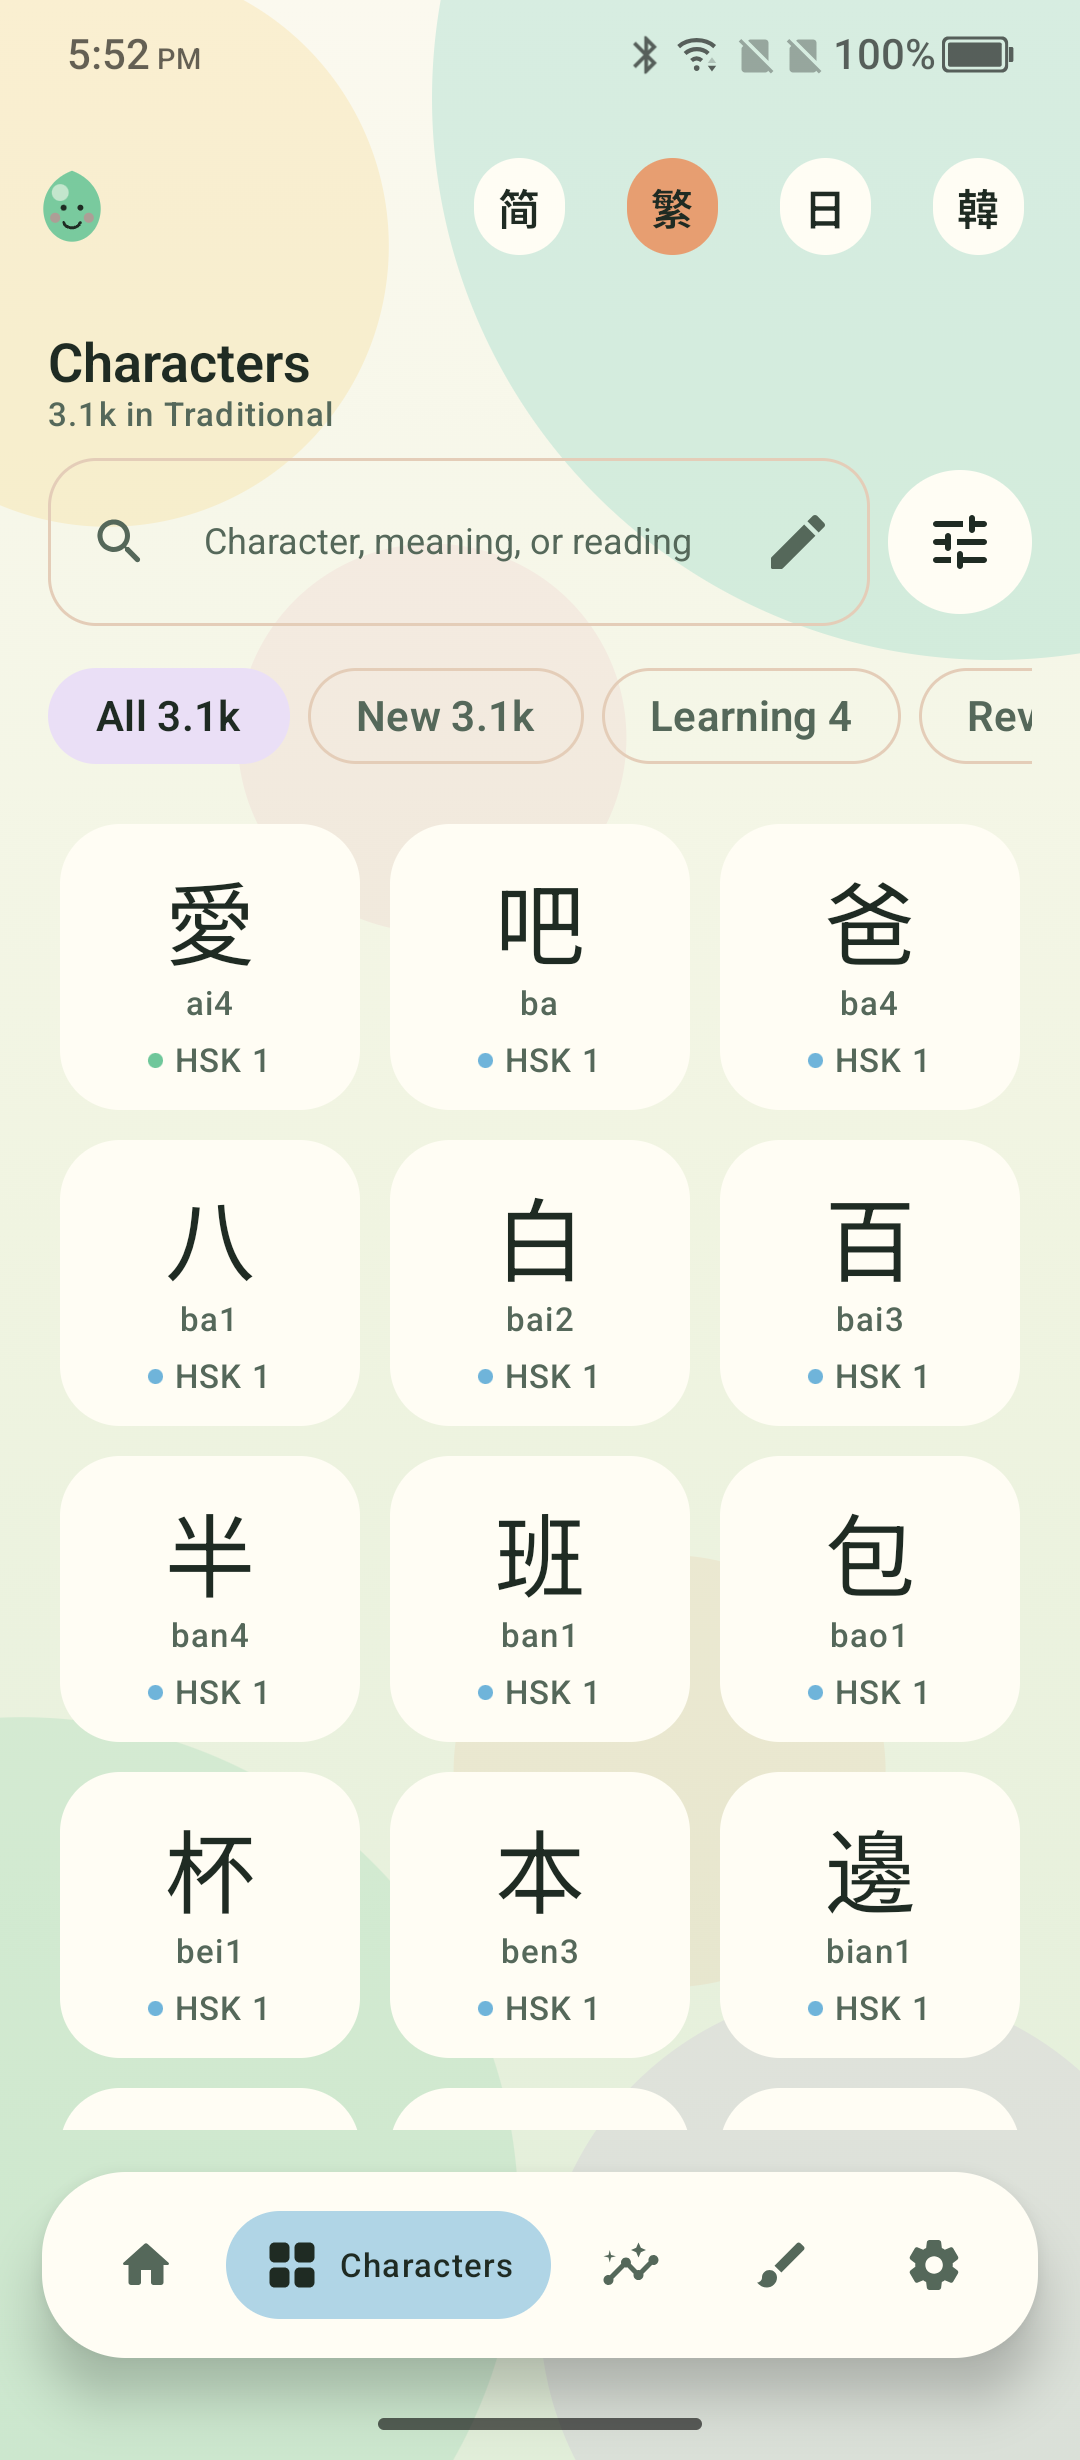
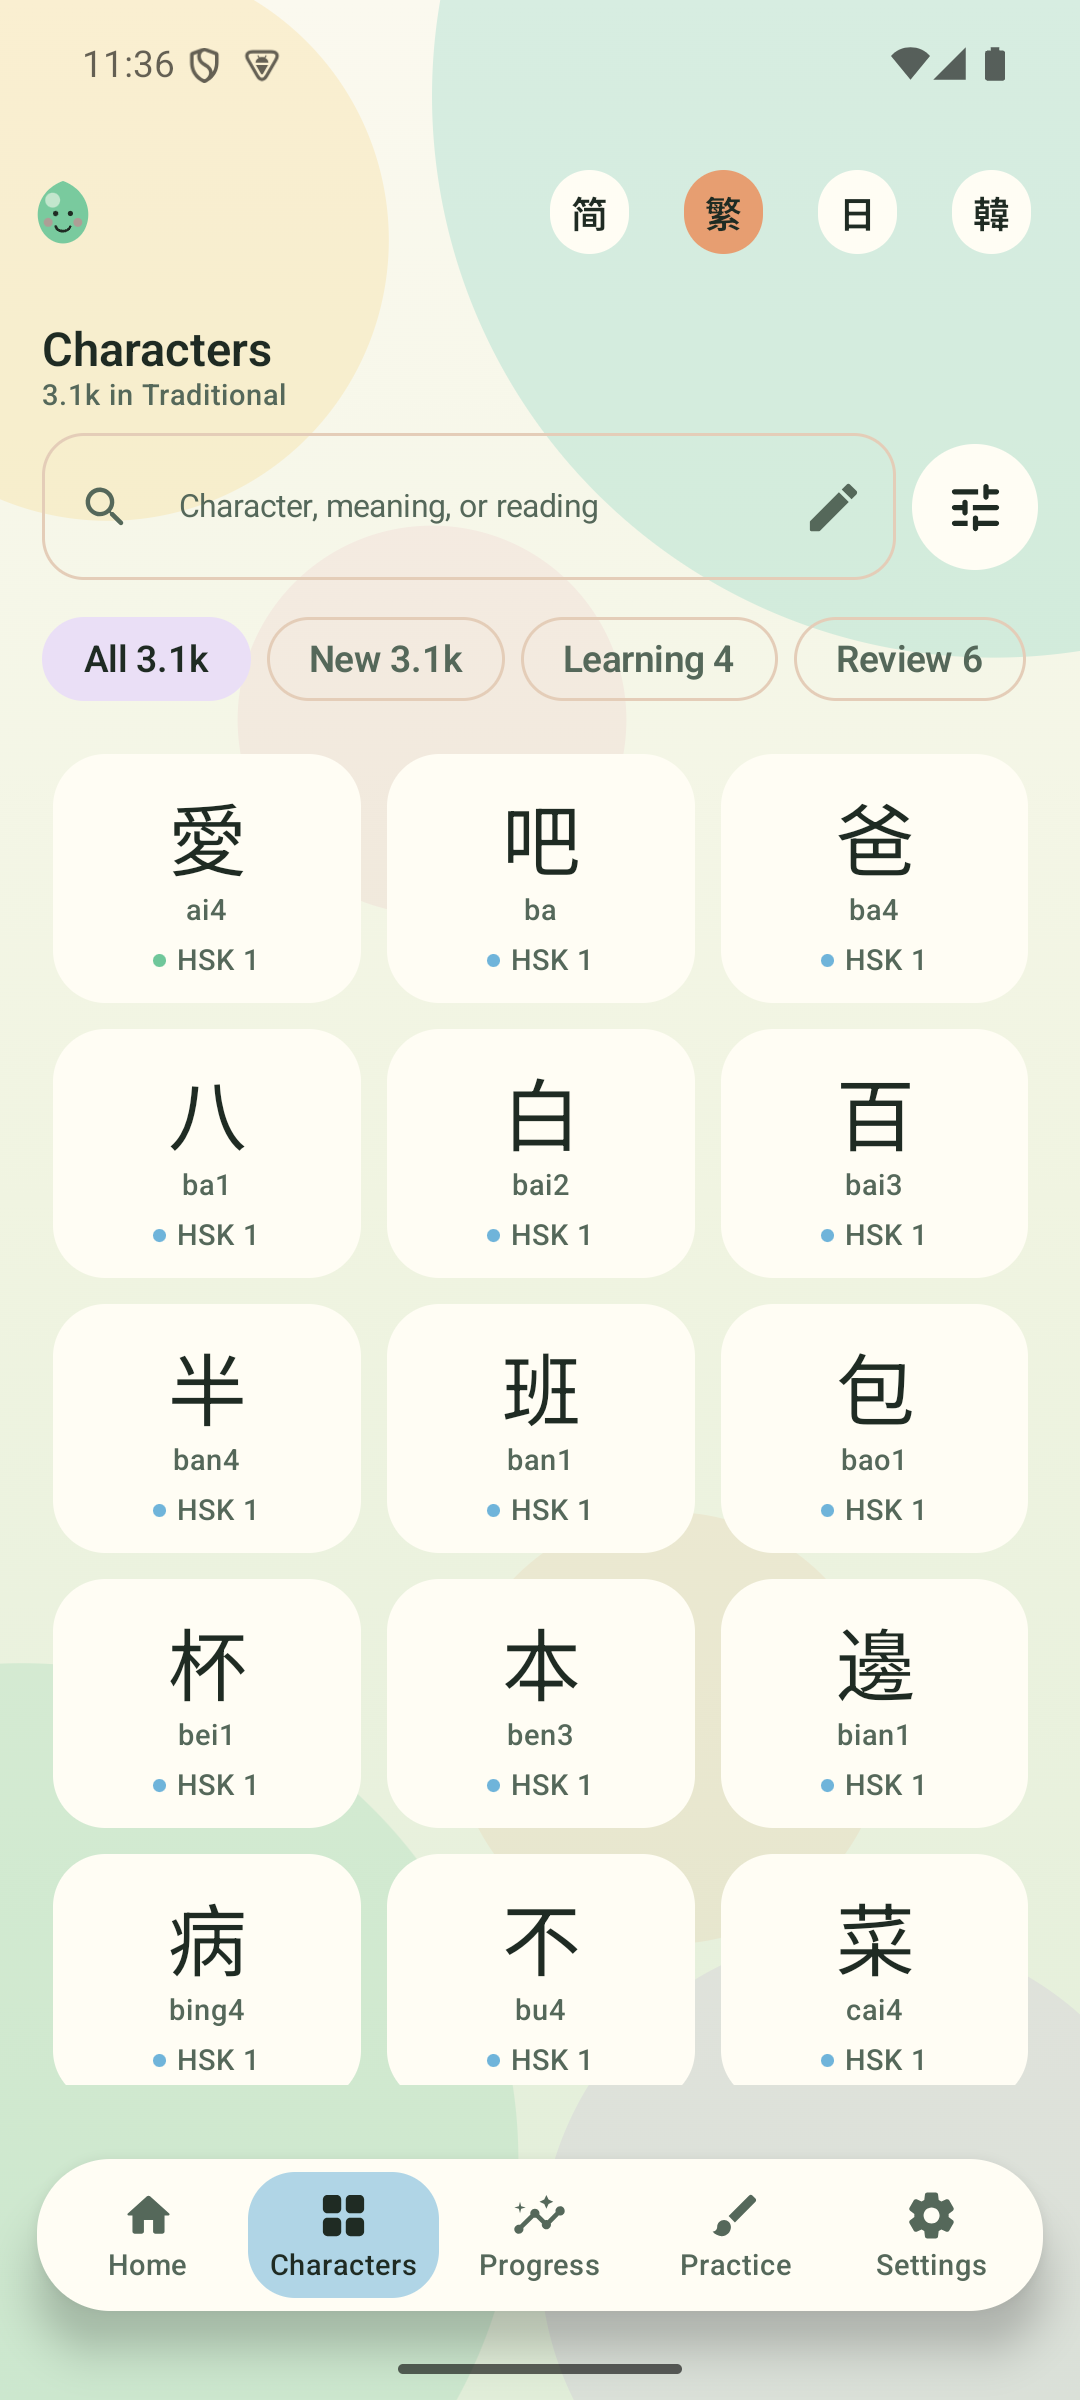
Refresh Play screenshots from the real 1.0.2 app

diff --git a/app/src/main/java/com/bassmd/bihua/ui/BihuaApp.kt b/app/src/main/java/com/bassmd/bihua/ui/BihuaApp.kt
@@ -818,7 +818,7 @@ fun BihuaApp(store: SettingsStore) {
                             Modifier
                                 .weight(1f)
                                 .navigationBarsPadding()
-                                .padding(bottom = 86.dp),
+                                .padding(bottom = 96.dp),
                         ) {
                             AppContent(
                                 tab = tab,
@@ -1292,34 +1292,36 @@ private fun BihuaBottomBar(
         Row(
             modifier = Modifier
                 .fillMaxWidth()
-                .padding(horizontal = 8.dp, vertical = 7.dp),
-            horizontalArrangement = Arrangement.SpaceEvenly,
+                .padding(horizontal = 6.dp, vertical = 5.dp),
+            horizontalArrangement = Arrangement.spacedBy(2.dp),
         ) {
             Tab.entries.forEach { item ->
                 val active = selected == item
                 Surface(
                     onClick = { onSelect(item) },
-                    shape = CircleShape,
+                    shape = RoundedCornerShape(18.dp),
                     color = if (active) Sky.copy(alpha = 0.55f) else PaperWarm,
+                    modifier = Modifier.weight(1f),
                 ) {
-                    Row(
-                        modifier = Modifier.padding(horizontal = 12.dp, vertical = 8.dp),
-                        verticalAlignment = Alignment.CenterVertically,
+                    Column(
+                        modifier = Modifier
+                            .fillMaxWidth()
+                            .padding(vertical = 6.dp),
+                        horizontalAlignment = Alignment.CenterHorizontally,
                     ) {
                         Icon(
                             item.icon,
                             contentDescription = item.label,
                             tint = if (active) InkDark else InkSoft,
-                            modifier = Modifier.size(20.dp),
+                            modifier = Modifier.size(21.dp),
                         )
-                        if (active) {
-                            Spacer(Modifier.width(6.dp))
-                            Text(
-                                item.label,
-                                style = MaterialTheme.typography.labelSmall,
-                                color = InkDark,
-                            )
-                        }
+                        Spacer(Modifier.height(2.dp))
+                        Text(
+                            item.label,
+                            style = MaterialTheme.typography.labelSmall,
+                            color = if (active) InkDark else InkSoft,
+                            maxLines = 1,
+                        )
                     }
                 }
             }

diff --git a/docs/index.html b/docs/index.html
@@ -222,7 +222,7 @@
       </div>
       <div class="download-side">
         <p class="small" style="margin-top:0">SHA-256</p>
-        <code>db07cf01d26a529dd9ece28e5477b4f1454873130e993725bc7f227eca817acd</code>
+        <code>76ec00b291ed73b7a33d6822e1dff6da8ee8cd602fe712ff5695979a914bfe83</code>
         <p class="small" style="margin:14px 0 0"><a href="download/SHA256SUMS.txt">Checksum file</a></p>
       </div>
     </div>

diff --git a/store/README.md b/store/README.md
@@ -2,14 +2,23 @@
 
 - `icon-512.png` — app icon, 512 × 512
 - `feature-graphic.png` — 1024 × 500
-- `phone-1.png` … `phone-5.png` — 1080 × 1920, 9:16
+- `phone-1.png` … `phone-7.png` — 1080 × 1920, 9:16, captured from 1.0.2
 - `tablet-10-*.png` — 2560 × 1440, 16:9, for 10-inch tablets
 - `tablet-7-*.png` — 1920 × 1080, 16:9, for 7-inch tablets
-- `tablet-1-home.png` … `tablet-4-progress.png` — 2304 × 1440 source captures
+- `app-shots/` — raw 1080 × 2400 captures of Home, Characters, detail, Practice, word practice, Progress, and the grade sheet
+- `tablet-1-home.png` … `tablet-4-progress.png` — older tablet source captures; refresh before uploading tablet shots
 - `listing.md` — names, descriptions, category, tags, contact
 - `release-notes-1.0.2.txt` — Play closed-test release notes
 - `phone-*-light.svg` — editable source frames for the phone shots
 - `feature-graphic.svg`, `icon-square.svg` — editable sources
 
-The app screenshots use a seeded showcase save (`tools/seed_showcase.py`) and
-the light theme. The tablet shots were captured in landscape on the SM-X520.
+The app screenshots use a seeded showcase save (`tools/seed_showcase.py`), the
+light theme, and the real app. Phone frames are rendered from the editable
+`phone-*-light.svg` sources with headless Chrome:
+
+```sh
+"/Applications/Google Chrome.app/Contents/MacOS/Google Chrome"   --headless=new --disable-gpu --hide-scrollbars   --window-size=1080,1920   --screenshot=store/phone-1.png   "file://$PWD/store/phone-1-light.svg"
+```
+
+`phone-6` shows the answer/grade sheet; `phone-7` shows Progress. Tablet shots
+should be recaptured from 1.0.2 before they are uploaded.

diff --git a/CHANGELOG.md b/CHANGELOG.md
@@ -75,6 +75,10 @@
 - Home shows the course under the greeting; the hero card carries the counts.
 - Emulator and mouse input now work, and emulators are no longer treated as
   stylus-only devices.
+- The bottom navigation keeps fixed positions and shows every tab label, so
+  the icons no longer move when the selected tab changes.
+- Play screenshots were regenerated from the real 1.0.2 app in light mode, with
+  a grade-sheet shot and a Progress shot added.
 
 ### Fixed
 
